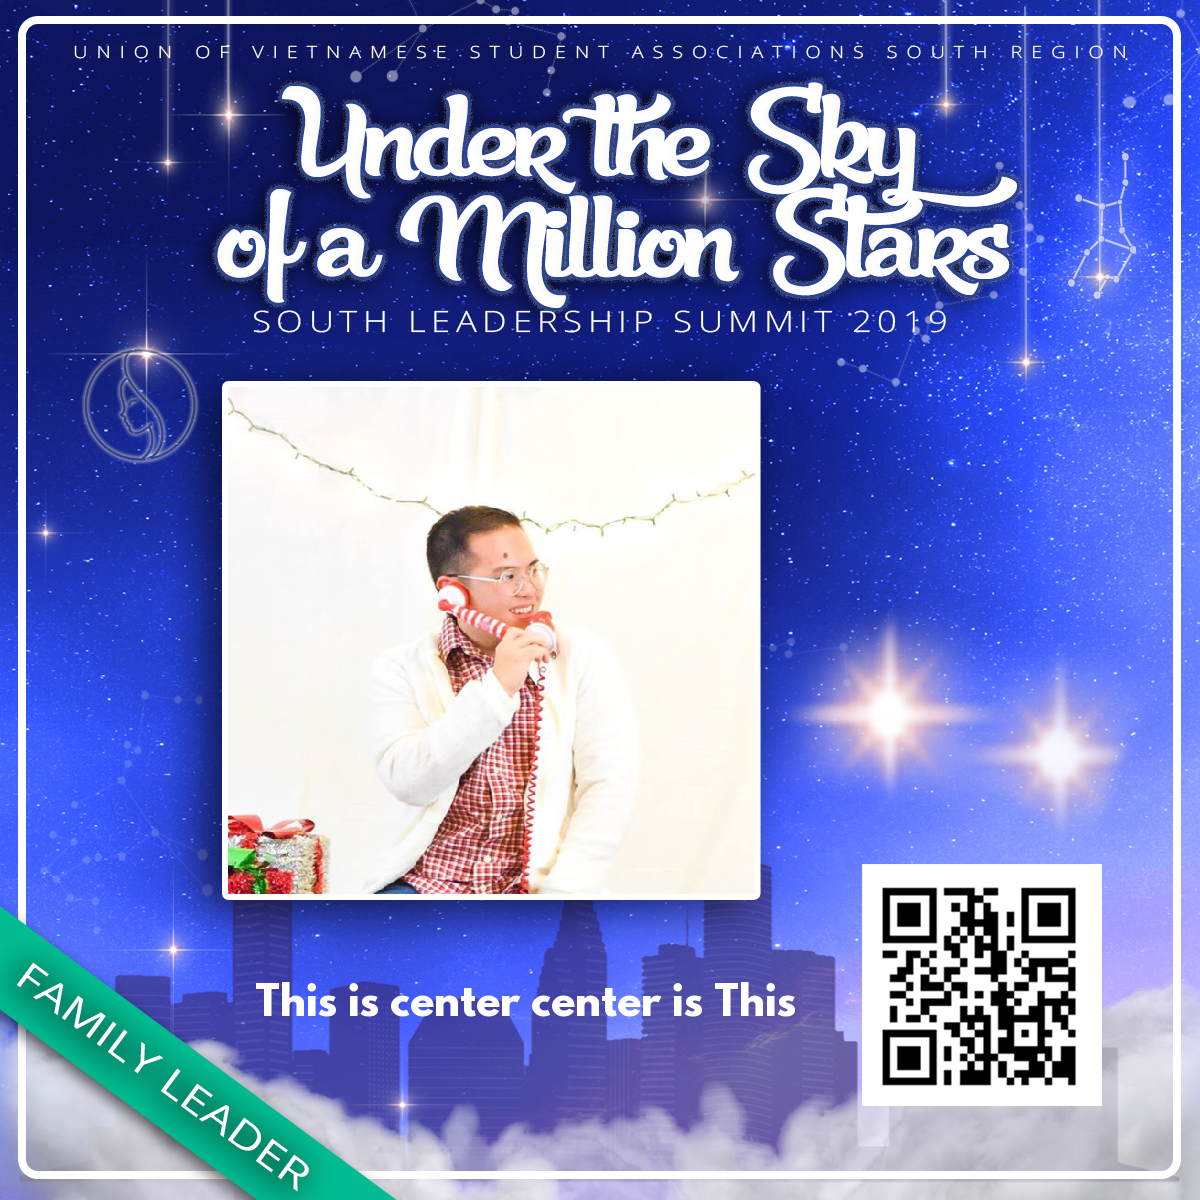
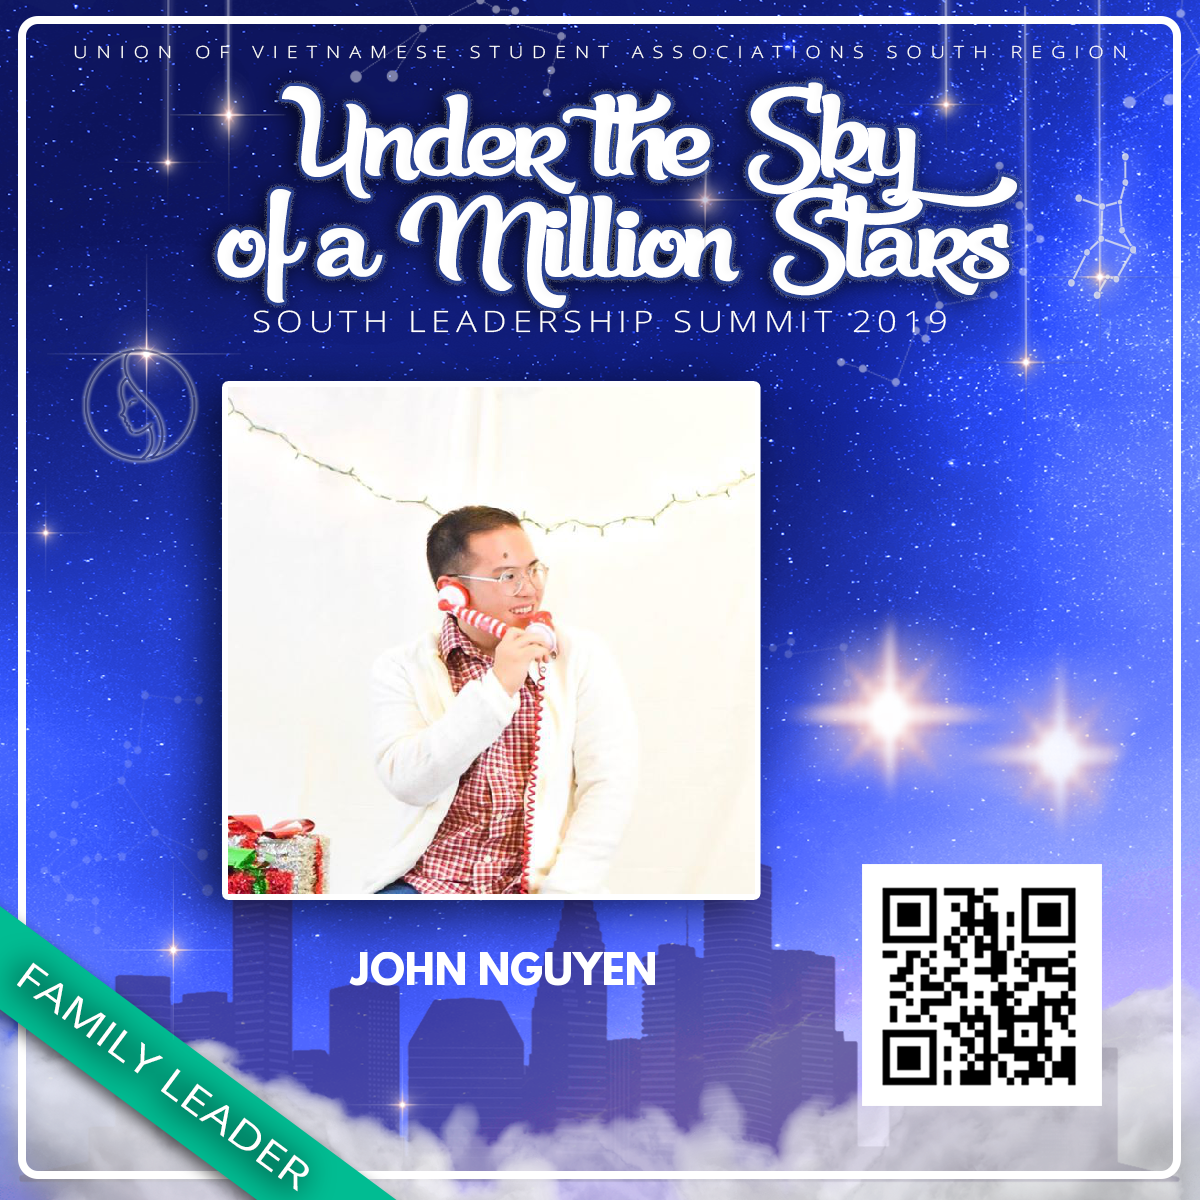
draw_name basic implementation; working on qr code

Changed region(s): [[0.2158, 0.7708, 0.5858, 0.8633], [0.5858, 0.8017, 0.6783, 0.8633]]

diff --git a/badge_generator_script.py b/badge_generator_script.py
@@ -32,10 +32,10 @@ def draw_name(image, name):
     leagueSpartan = ImageFont.truetype(fontPath, 40)
 
     # attendee name
-    name = "This is center center is This"
+    name = "John Nguyen"
     attendee_name = ImageDraw.Draw(image)
-    w, h = attendee_name.textsize(name)
-    attendee_name.text(((685 - w) / 2, 980), name, font=leagueSpartan )
+    w, h = leagueSpartan.getsize(name)
+    attendee_name.text(((1010 - w) / 2,950), name, font=leagueSpartan )
 
     image.save("test_user_badge.png")
 
